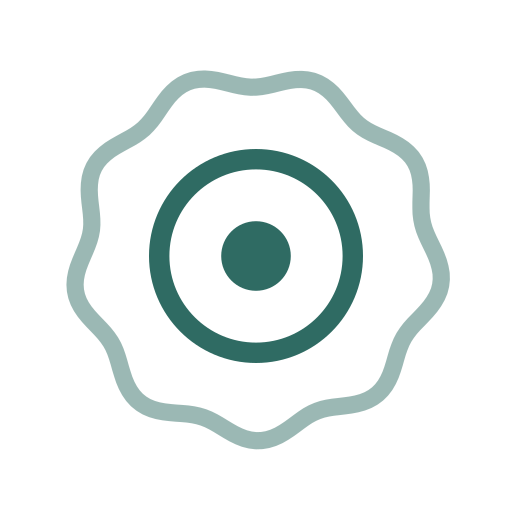
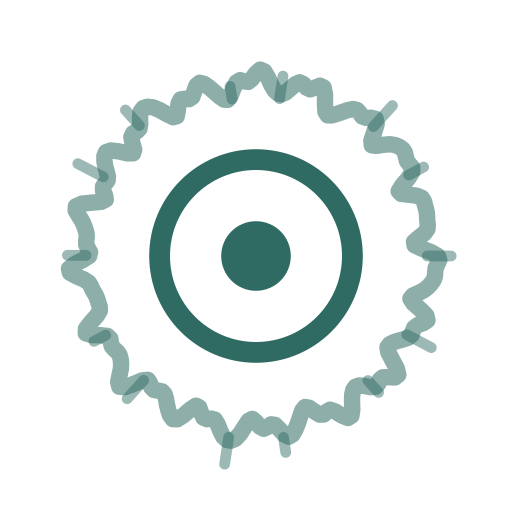
Make the outer ring read as radio noise
Add high-frequency interference and hash ticks around the field so the outer ring is clearly noisy while the inner circle and point stay sharp.

Changed region(s): [[0.0938, 0.125, 0.9062, 0.8438], [0.4062, 0.7812, 0.5938, 0.9375]]

diff --git a/src/components/practice-icons.tsx b/src/components/practice-icons.tsx
@@ -216,10 +216,8 @@ export function IconStar({
 export function IconBrand(props: IconProps) {
   return (
     <BaseIcon {...props}>
-      <path
-        d="M20.47 12.00 L20.64 12.45 L20.73 12.92 L20.70 13.38 L20.56 13.82 L20.31 14.23 L20.00 14.60 L19.66 14.94 L19.34 15.27 L19.06 15.60 L18.85 15.95 L18.69 16.34 L18.56 16.77 L18.44 17.22 L18.29 17.66 L18.08 18.08 L17.79 18.43 L17.42 18.70 L17.00 18.88 L16.53 18.98 L16.06 19.04 L15.61 19.08 L15.18 19.15 L14.79 19.27 L14.43 19.47 L14.07 19.72 L13.70 20.01 L13.31 20.29 L12.90 20.52 L12.45 20.66 L12.00 20.70 L11.55 20.62 L11.11 20.44 L10.70 20.21 L10.31 19.96 L9.93 19.73 L9.54 19.56 L9.14 19.45 L8.71 19.40 L8.24 19.37 L7.76 19.34 L7.29 19.26 L6.84 19.10 L6.46 18.85 L6.15 18.50 L5.91 18.09 L5.75 17.63 L5.62 17.17 L5.50 16.72 L5.35 16.32 L5.15 15.95 L4.90 15.62 L4.59 15.30 L4.26 14.97 L3.95 14.62 L3.70 14.23 L3.54 13.80 L3.49 13.35 L3.54 12.89 L3.69 12.44 L3.87 12.00 L4.06 11.58 L4.22 11.18 L4.30 10.78 L4.32 10.37 L4.28 9.93 L4.21 9.47 L4.17 8.99 L4.17 8.52 L4.27 8.06 L4.47 7.65 L4.76 7.30 L5.13 7.01 L5.54 6.77 L5.96 6.56 L6.34 6.34 L6.68 6.09 L6.98 5.80 L7.24 5.45 L7.49 5.06 L7.76 4.66 L8.07 4.29 L8.43 3.98 L8.84 3.78 L9.30 3.68 L9.77 3.69 L10.25 3.77 L10.72 3.89 L11.16 4.01 L11.59 4.09 L12.00 4.10 L12.42 4.04 L12.85 3.93 L13.30 3.81 L13.76 3.72 L14.23 3.70 L14.67 3.77 L15.09 3.95 L15.46 4.23 L15.78 4.58 L16.06 4.96 L16.33 5.34 L16.60 5.67 L16.90 5.94 L17.25 6.17 L17.65 6.35 L18.08 6.52 L18.52 6.72 L18.93 6.96 L19.28 7.28 L19.53 7.65 L19.69 8.08 L19.75 8.55 L19.76 9.02 L19.74 9.49 L19.73 9.93 L19.77 10.35 L19.88 10.75 L20.05 11.15 L20.26 11.57 Z"
-        opacity={0.38}
-      />
+      <path d="M20.52 12.00 L20.77 12.39 L20.87 12.80 L20.78 13.19 L20.51 13.54 L20.12 13.85 L19.70 14.13 L19.36 14.39 L19.14 14.68 L19.06 15.02 L19.08 15.41 L19.14 15.84 L19.14 16.27 L19.05 16.65 L18.82 16.95 L18.49 17.17 L18.11 17.34 L17.74 17.49 L17.44 17.69 L17.22 17.97 L17.07 18.35 L16.93 18.79 L16.77 19.23 L16.53 19.58 L16.19 19.79 L15.77 19.83 L15.30 19.72 L14.83 19.53 L14.39 19.36 L14.01 19.29 L13.68 19.36 L13.38 19.58 L13.07 19.89 L12.74 20.21 L12.38 20.45 L12.00 20.54 L11.62 20.48 L11.25 20.30 L10.91 20.07 L10.57 19.87 L10.23 19.76 L9.86 19.76 L9.45 19.85 L9.01 19.95 L8.58 19.99 L8.20 19.90 L7.89 19.64 L7.67 19.25 L7.53 18.77 L7.42 18.30 L7.29 17.91 L7.07 17.64 L6.75 17.49 L6.33 17.42 L5.86 17.37 L5.40 17.26 L5.02 17.07 L4.78 16.77 L4.66 16.38 L4.65 15.96 L4.66 15.53 L4.64 15.15 L4.51 14.81 L4.29 14.51 L4.00 14.21 L3.71 13.89 L3.50 13.54 L3.45 13.16 L3.56 12.76 L3.81 12.37 L4.12 12.00 L4.39 11.66 L4.54 11.33 L4.53 10.99 L4.37 10.62 L4.13 10.20 L3.89 9.76 L3.76 9.32 L3.78 8.92 L3.98 8.57 L4.31 8.29 L4.70 8.07 L5.07 7.86 L5.36 7.62 L5.55 7.31 L5.67 6.95 L5.76 6.55 L5.89 6.15 L6.10 5.83 L6.43 5.62 L6.84 5.53 L7.30 5.52 L7.74 5.54 L8.12 5.50 L8.42 5.35 L8.65 5.05 L8.85 4.64 L9.06 4.18 L9.32 3.76 L9.65 3.48 L10.03 3.37 L10.45 3.44 L10.87 3.64 L11.27 3.87 L11.64 4.06 L12.00 4.14 L12.35 4.10 L12.72 3.97 L13.11 3.82 L13.50 3.73 L13.88 3.77 L14.22 3.95 L14.52 4.25 L14.78 4.60 L15.03 4.91 L15.31 5.12 L15.66 5.20 L16.08 5.17 L16.56 5.09 L17.06 5.04 L17.51 5.09 L17.86 5.29 L18.09 5.63 L18.19 6.08 L18.21 6.58 L18.22 7.04 L18.29 7.43 L18.46 7.73 L18.74 7.97 L19.09 8.18 L19.44 8.42 L19.72 8.70 L19.87 9.05 L19.89 9.44 L19.80 9.85 L19.70 10.24 L19.64 10.61 L19.70 10.96 L19.90 11.29 L20.19 11.63 Z" opacity={0.42} />
+      <path d="M20.20 12.00 L21.16 12.00 M18.90 16.43 L20.06 17.17 M16.54 18.83 L16.92 19.41 M11.70 20.19 L11.68 20.91 M7.80 19.04 L7.09 20.23 M5.13 16.48 L4.36 16.99 M3.81 11.51 L3.26 11.48 M4.80 8.07 L3.70 7.47 M7.71 5.01 L7.09 4.01 M12.49 3.81 L12.53 3.29 M15.72 4.69 L16.18 3.78 M19.14 7.97 L20.32 7.31" opacity={0.38} />
       <circle cx="12" cy="12" r="4.15" />
       <circle cx="12" cy="12" r="1.55" fill="currentColor" stroke="none" />
     </BaseIcon>

diff --git a/brand/BRAND.md b/brand/BRAND.md
@@ -8,7 +8,7 @@
 
 | Слой | Что значит |
 |------|------------|
-| Внешнее кольцо (волнистое) | Живой, неровный фон дня. Ещё без фокуса |
+| Внешнее кольцо (помехи) | Шум дня, как лёгкие радиопомехи. Ещё без фокуса |
 | Внутреннее кольцо (ровное) | Внимание собирается, контур становится яснее |
 | Точка | Цель в центре: маленькая, устойчивая, без давления |
 
